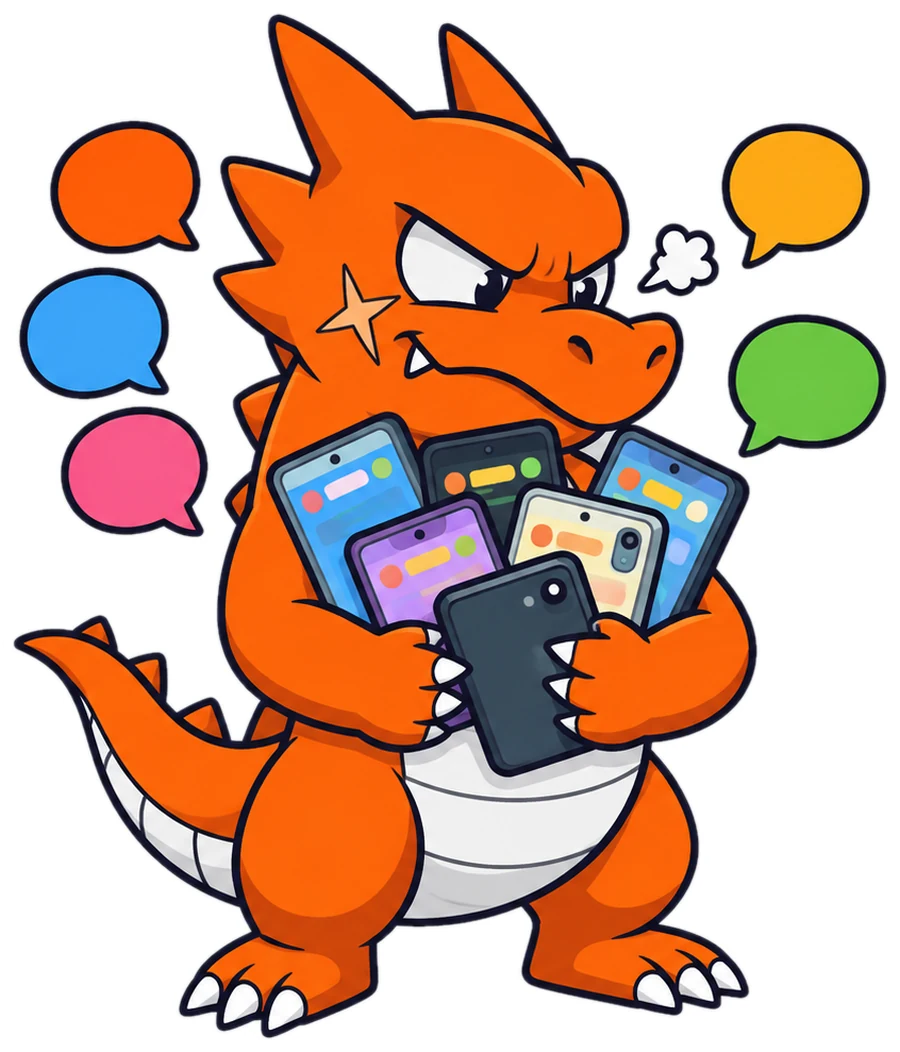
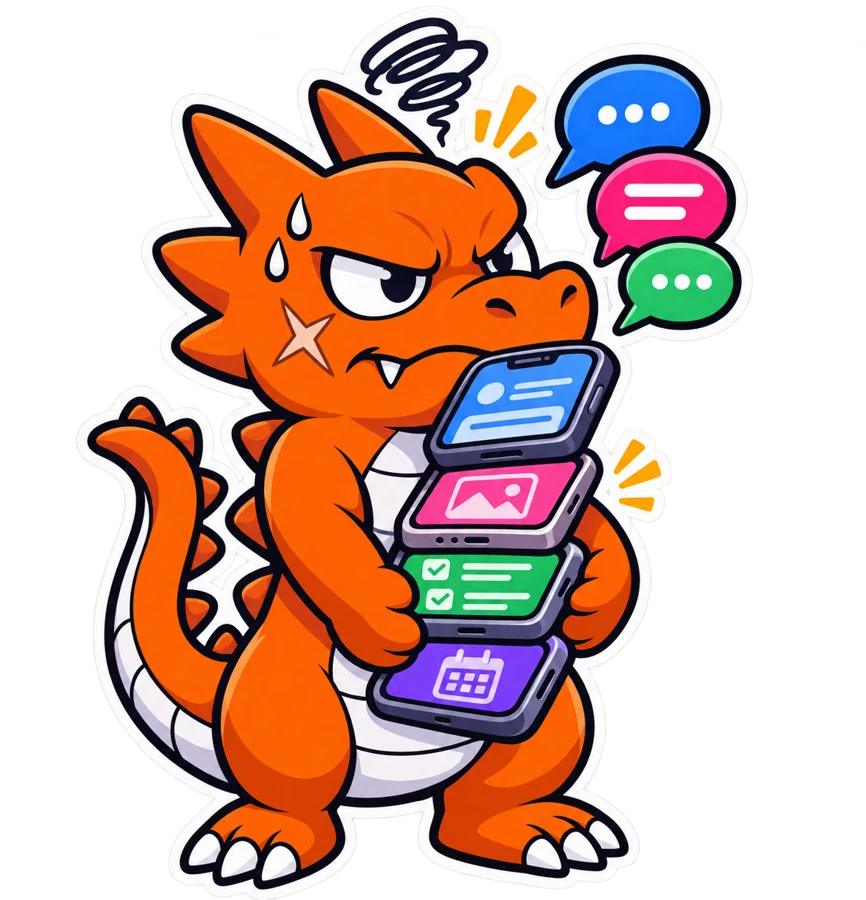
Novos stickers do Draco nos cards do problema (#19)
Claude-Session: https://claude.ai/code/session_012y8QeL6hqXnQuq4nwJyrhU

diff --git a/index.html b/index.html
@@ -723,6 +723,19 @@ br.m{display:none}
   .footer__brand{grid-column:1/-1}
   .footer__in{flex-direction:column;align-items:center;gap:8px}
 }
+
+/* ===== stickers novos do Draco ===== */
+@media (min-width:641px){
+  .bcard .bcard__pose--a{height:62%;top:60%}
+  .bcard .bcard__pose--b{height:80%;top:50%;right:12px}
+  .bcard .bcard__pose--c{height:80%;top:50%;right:20px}
+  .bcard--b p,.bcard--c p{max-width:168px}
+  .bcard--b h3,.bcard--c h3{max-width:180px}
+}
+@media (max-width:640px){
+  .bcard--a .bcard__pose{max-height:280px}
+  .bcard--b .bcard__pose,.bcard--c .bcard__pose{max-height:260px}
+}
 </style></head><body><div id="root"></div>
 <script src="https://cdnjs.cloudflare.com/ajax/libs/gsap/3.12.5/gsap.min.js"></script>
 <script src="https://cdnjs.cloudflare.com/ajax/libs/gsap/3.12.5/ScrollTrigger.min.js"></script>
@@ -815,15 +828,15 @@ document.querySelector('#root').innerHTML = `
       <div class="bento">
         <article class="bcard bcard--a">
           <div class="bcard__text"><h3>Descoberta às cegas</h3><p>Os algoritmos não sabem o que você realmente <br class="d">gosta e te empurram qualquer&nbsp;coisa.</p></div>
-          <img class="bcard__pose bcard__pose--a" src="${IMG}pose-descoberta.webp?v=3" alt="Draco de cara fechada, escolhendo entre vários pôsteres de anime aleatórios" width="900" height="988" loading="lazy">
+          <img class="bcard__pose bcard__pose--a" src="${IMG}pose-descoberta.webp?v=4" alt="Draco desconfiado olhando o celular, escolhendo entre vários pôsteres de anime aleatórios" width="900" height="988" loading="lazy">
         </article>
         <div class="bento__col">
           <article class="bcard bcard--b">
-            <img class="bcard__pose bcard__pose--b" src="${IMG}pose-comunidade.webp?v=3" alt="Draco irritado abraçado a vários celulares, cercado de balões de conversa de várias cores" width="900" height="1052" loading="lazy">
+            <img class="bcard__pose bcard__pose--b" src="${IMG}pose-comunidade.webp?v=4" alt="Draco irritado abraçado a vários celulares, cercado de balões de conversa de várias cores" width="900" height="1052" loading="lazy">
             <div class="bcard__text"><h3>Comunidade pulverizada</h3><p>Sua tribo está espalhada em 10&nbsp;plataformas. Discord, Twitter e Reddit. Ninguém sabe onde pode se reunir de&nbsp;verdade.</p></div>
           </article>
           <article class="bcard bcard--c">
-            <img class="bcard__pose bcard__pose--c" src="${IMG}pose-social.webp?v=3" alt="Draco de braços cruzados com um número de fila na barriga, ignorando um celular cheio de curtidas" width="900" height="671" loading="lazy">
+            <img class="bcard__pose bcard__pose--c" src="${IMG}pose-social.webp?v=4" alt="Draco de braços cruzados com um número de fila na barriga, ignorando um celular cheio de curtidas" width="900" height="671" loading="lazy">
             <div class="bcard__text"><h3>Social sem sentimento</h3><p>Os apps de anime existentes tratam você apenas como um&nbsp;número. Nenhum pergunta o que você sentiu e nem te conecta com outros&nbsp;fãs.</p></div>
           </article>
         </div>
